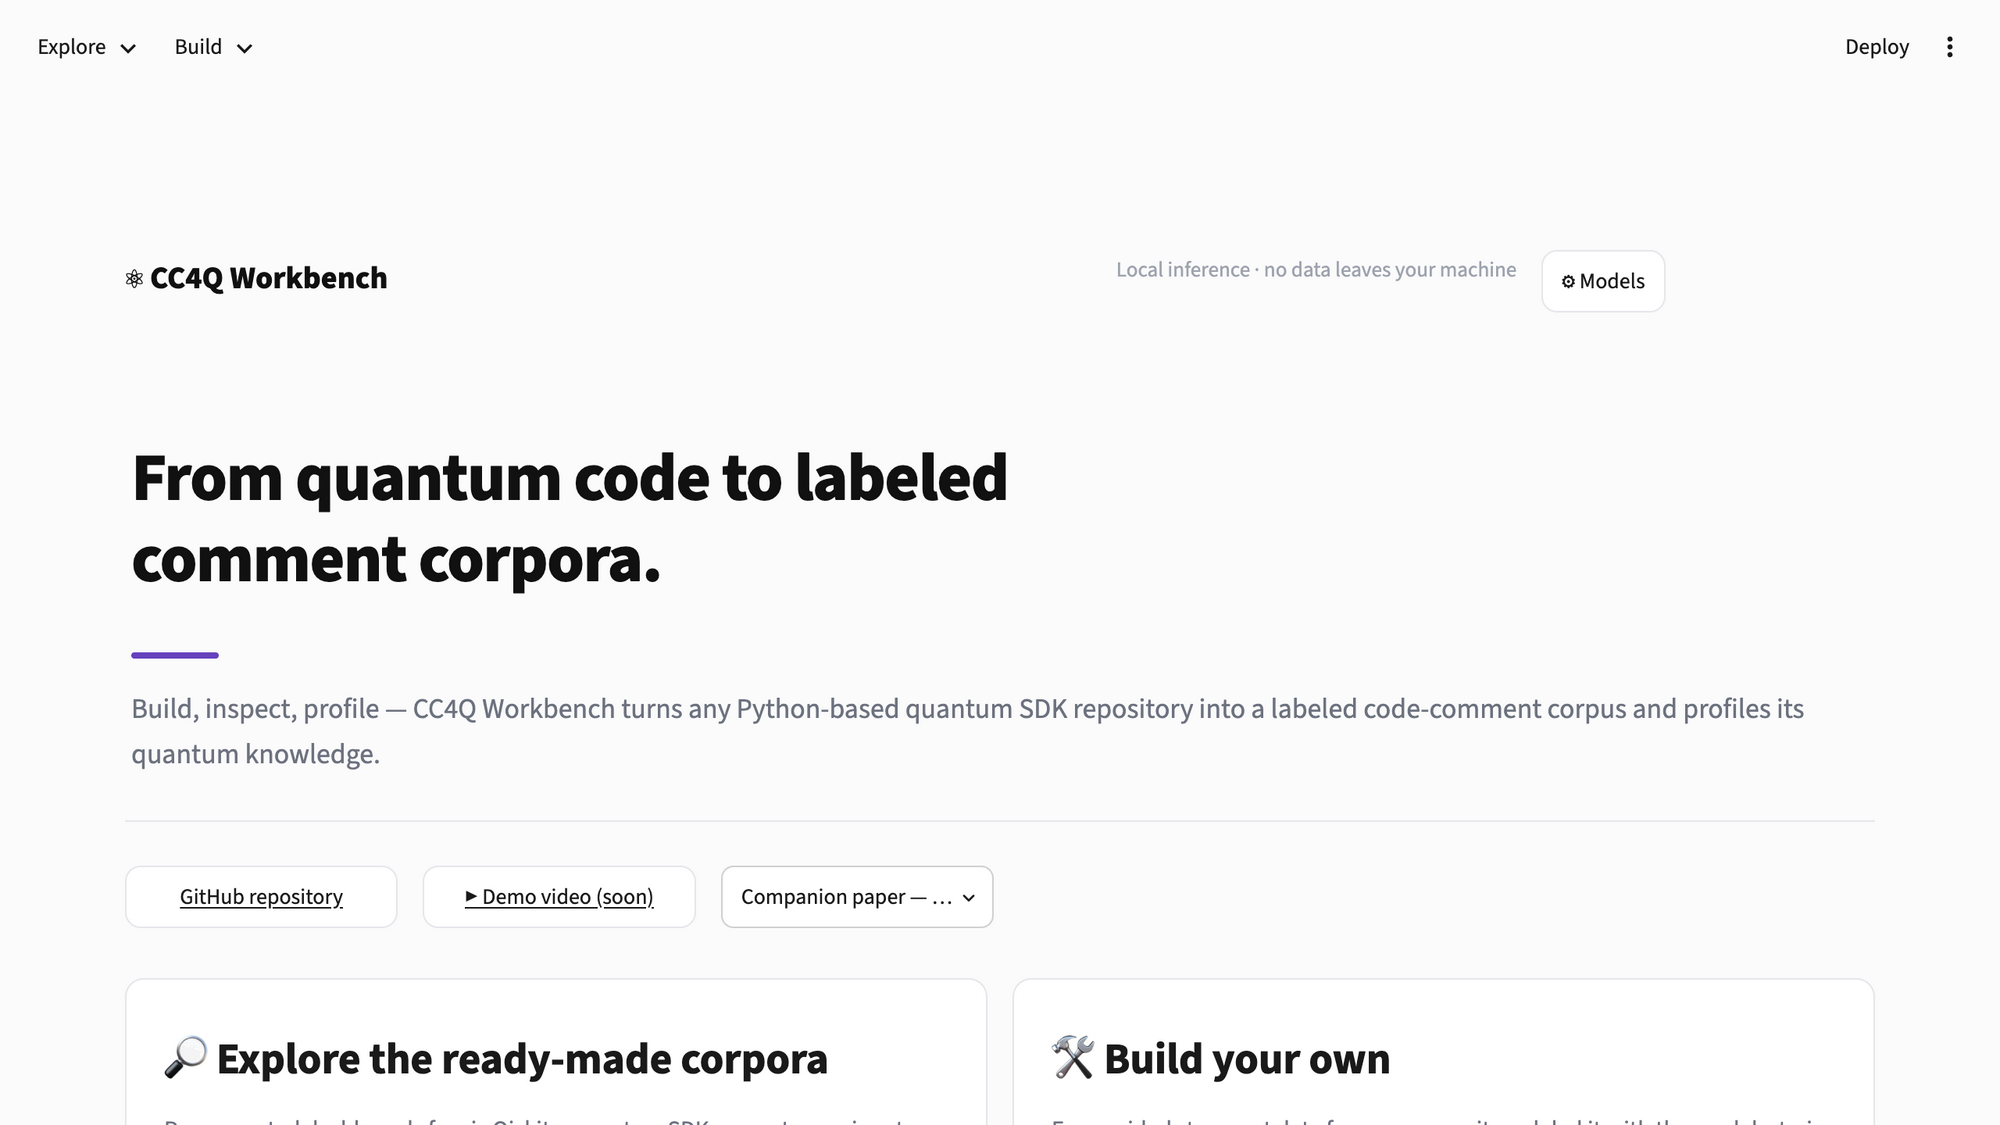
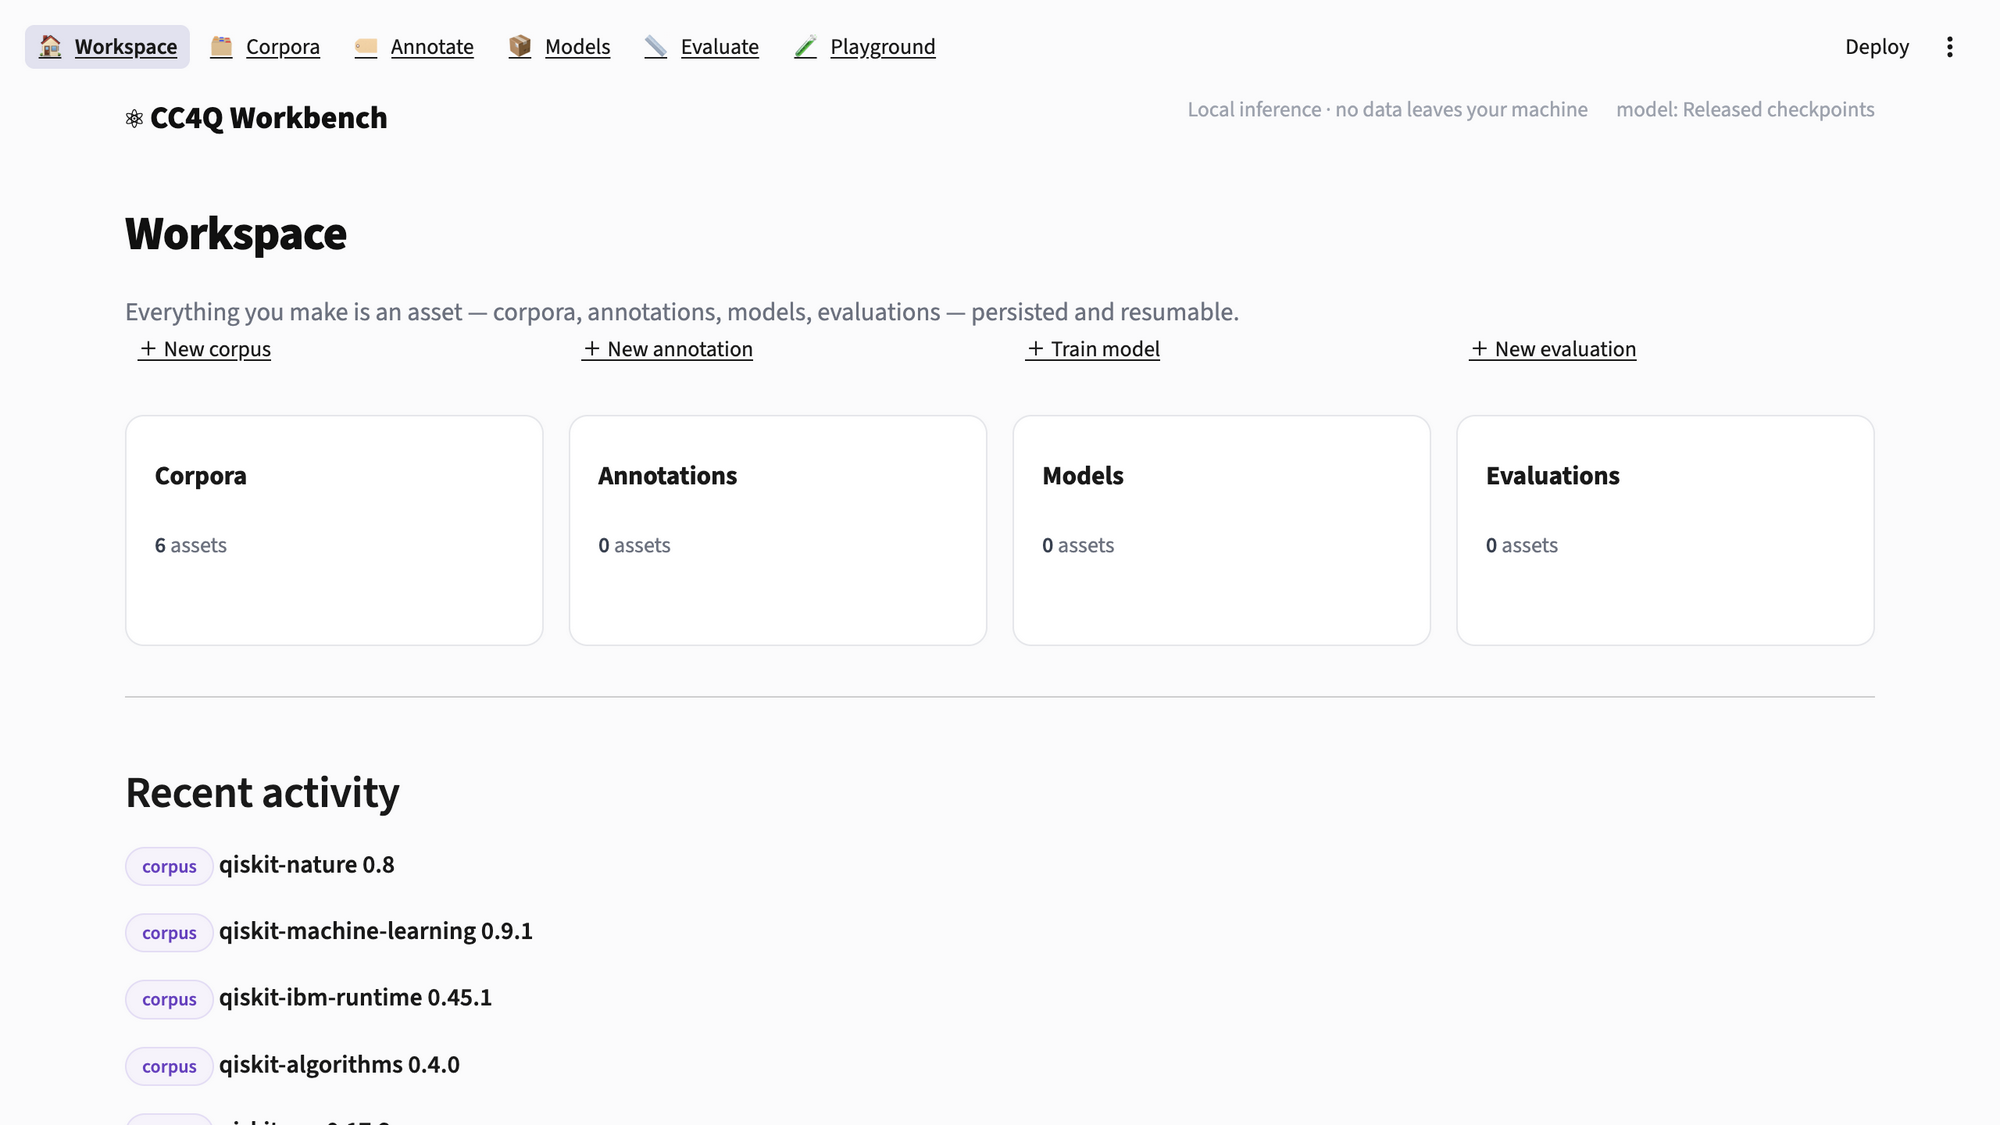
fix(ui): resolve six browser-confirmed UI defects
1. First-paint nav flash: pin nav link color to dark in the theme CSS so
   the top nav is visible immediately on cold load (was white-on-white
   until the first navigation).
2. Home nav redundancy: drop the "Open <Type> ->" page links under each
   Workspace asset card (info-only cards now) and label the eight-
   primitive workflow strip with the primitive name ("Build ->",
   "Sample ->", ...) instead of eight identical "Open ->".
3. Lazy seeding: seed the six built-in SDK corpus assets at app startup
   in main() rather than lazily inside the Corpora page, so a fresh
   workspace shows "Corpora 6 assets" on first paint.
4. Bare meta line: asset cards no longer render a dangling "—" when no
   updated_at is available.
5. Header layout: collapse the brand row to one compact line (brand
   left; tagline + model indicator right) and tighten top padding.
6. Header consistency: Playground now uses the shared page_header
   (title + one-line description) like every other page.

Also retake the Home/Workspace screenshots and gitignore the default
.cc4q_workspace/ runtime directory.

diff --git a/cc4q/app/main.py b/cc4q/app/main.py
@@ -37,7 +37,7 @@ def main():
 
     apply_theme()
 
-    b1, b2, b3 = st.columns([2, 2, 1])
+    b1, b2 = st.columns([1, 1])
     with b1:
         st.markdown(
             '<div class="cc4q-brand"><span class="name">⚛ CC4Q '
@@ -46,18 +46,18 @@ def main():
         )
     with b2:
         st.markdown(
-            '<div class="cc4q-brand" style="justify-content:flex-end">'
-            '<span class="cc4q-topnav-note">Local inference · no data '
-            'leaves your machine</span></div>',
-            unsafe_allow_html=True,
-        )
-    with b3:
-        st.markdown('<div style="height:14px"></div>', unsafe_allow_html=True)
-        st.markdown(
-            f'<div class="cc4q-brand" style="justify-content:flex-end">'
+            '<div class="cc4q-brand" style="justify-content:flex-end;'
+            'gap:18px"><span class="cc4q-topnav-note">Local inference · '
+            'no data leaves your machine</span>'
             f'<span class="cc4q-topnav-note">model: '
             f'{_default_model_indicator()}</span></div>',
-            unsafe_allow_html=True)
+            unsafe_allow_html=True,
+        )
+
+    # Seed built-in SDK corpus assets once at startup (not lazily inside
+    # the Corpora page) so the Workspace overview is coherent on first paint.
+    from cc4q.app.pages.p_corpora import _seed_builtins
+    _seed_builtins()
 
     pages = st.navigation([
         page("Workspace", "p_workspace.py", "🏠", "workspace", default=True),

diff --git a/cc4q/app/pages/p_playground.py b/cc4q/app/pages/p_playground.py
@@ -5,7 +5,7 @@ import streamlit as st
 from cc4q.app import analysis  # noqa: E402
 from cc4q.app import model_select, registry
 from cc4q.app.model_cache import checkpoints_missing, missing_checkpoints_warning  # noqa: E402
-from cc4q.app.ui import footer, summary_strip, unit_card  # noqa: E402
+from cc4q.app.ui import footer, page_header, summary_strip, unit_card  # noqa: E402
 
 
 def _results(units, fallback):
@@ -27,14 +27,14 @@ def _results(units, fallback):
 
 
 def render():
-    st.header("Playground")
-    st.caption("Scratch space — "
-               "experiments here are not saved as assets.")
+    page_header(
+        "Playground",
+        "Scratch space — experiments here are not saved as assets. Paste a "
+        "Python snippet; CC4Q extracts its comments and splits them into "
+        "sentence-level units (SCCUs), then labels each unit on three axes — "
+        "quantum-relatedness, quantum category, and developer intent.")
     st.write(
-        "Paste a Python snippet. CC4Q extracts its comments and splits them "
-        "into sentence-level units (SCCUs). The pipeline labels each unit on "
-        "three axes — quantum-relatedness, quantum category, and developer "
-        "intent — and this view foregrounds the two quantum axes."
+        "This view foregrounds the two quantum axes."
     )
 
     left, right = st.columns([1, 1], vertical_alignment="top")

diff --git a/cc4q/app/pages/p_workspace.py b/cc4q/app/pages/p_workspace.py
@@ -20,14 +20,15 @@ def _type_card(type_, count, updated):
     label, page_file, _ = TYPE_META[type_]
     col = st.container()
     with col:
+        meta = ""
+        if updated:
+            meta = f'<div class="meta-line">{updated}</div>'
         st.markdown(
             f'<div class="cc4q-asset-card"><h3>{label}</h3>'
             f'<div class="meta-line"><b>{count}</b> asset'
             f'{"s" if count != 1 else ""}</div>'
-            f'<div class="meta-line">{updated or "—"}</div></div>',
+            f'{meta}</div>',
             unsafe_allow_html=True)
-        st.page_link(os.path.join(PAGES_DIR, page_file),
-                     label=f"Open {label} →", use_container_width=True)
 
 
 def render():
@@ -91,7 +92,8 @@ def render():
                     f'<div class="cc4q-asset-card"><h3>{title}</h3></div>',
                     unsafe_allow_html=True)
                 st.page_link(_os.path.join(PAGES_DIR, page_file),
-                             label="Open →", use_container_width=True)
+                             label=f"{title.split(' ', 1)[1]} →",
+                             use_container_width=True)
 
     st.divider()
     cols = st.columns(3)

diff --git a/cc4q/app/ui.py b/cc4q/app/ui.py
@@ -82,6 +82,21 @@ def apply_theme():
         .stApp a { color: #1A1A1A; text-decoration: underline;
                    text-underline-offset: 2px; }
         .stApp a:hover { color: #000000; }
+        /* Top-navigation lives in the app header, outside .stApp's first
+           paint of page CSS - force readable link colors so a cold load
+           never shows white-on-white nav links. */
+        header[data-testid="stHeader"] a,
+        [data-testid="stNavigation"] a,
+        [data-testid="stAppViewContainer"] nav a {
+            color: #1A1A1A !important;
+        }
+        header[data-testid="stHeader"] [aria-current="page"],
+        [data-testid="stNavigation"] [aria-current="page"] {
+            color: #1A1A1A !important;
+        }
+        /* tighten the band under the top nav */
+        .stApp .block-container { padding-top: 1.6rem; }
+        .cc4q-brand { padding: 4px 0 2px 0; }
         h1, h2, h3 { color: #1A1A1A; letter-spacing: -0.01em; font-weight: 700; }
         h3 { font-weight: 650; }
         /* Primary buttons: Kimi signature black */
